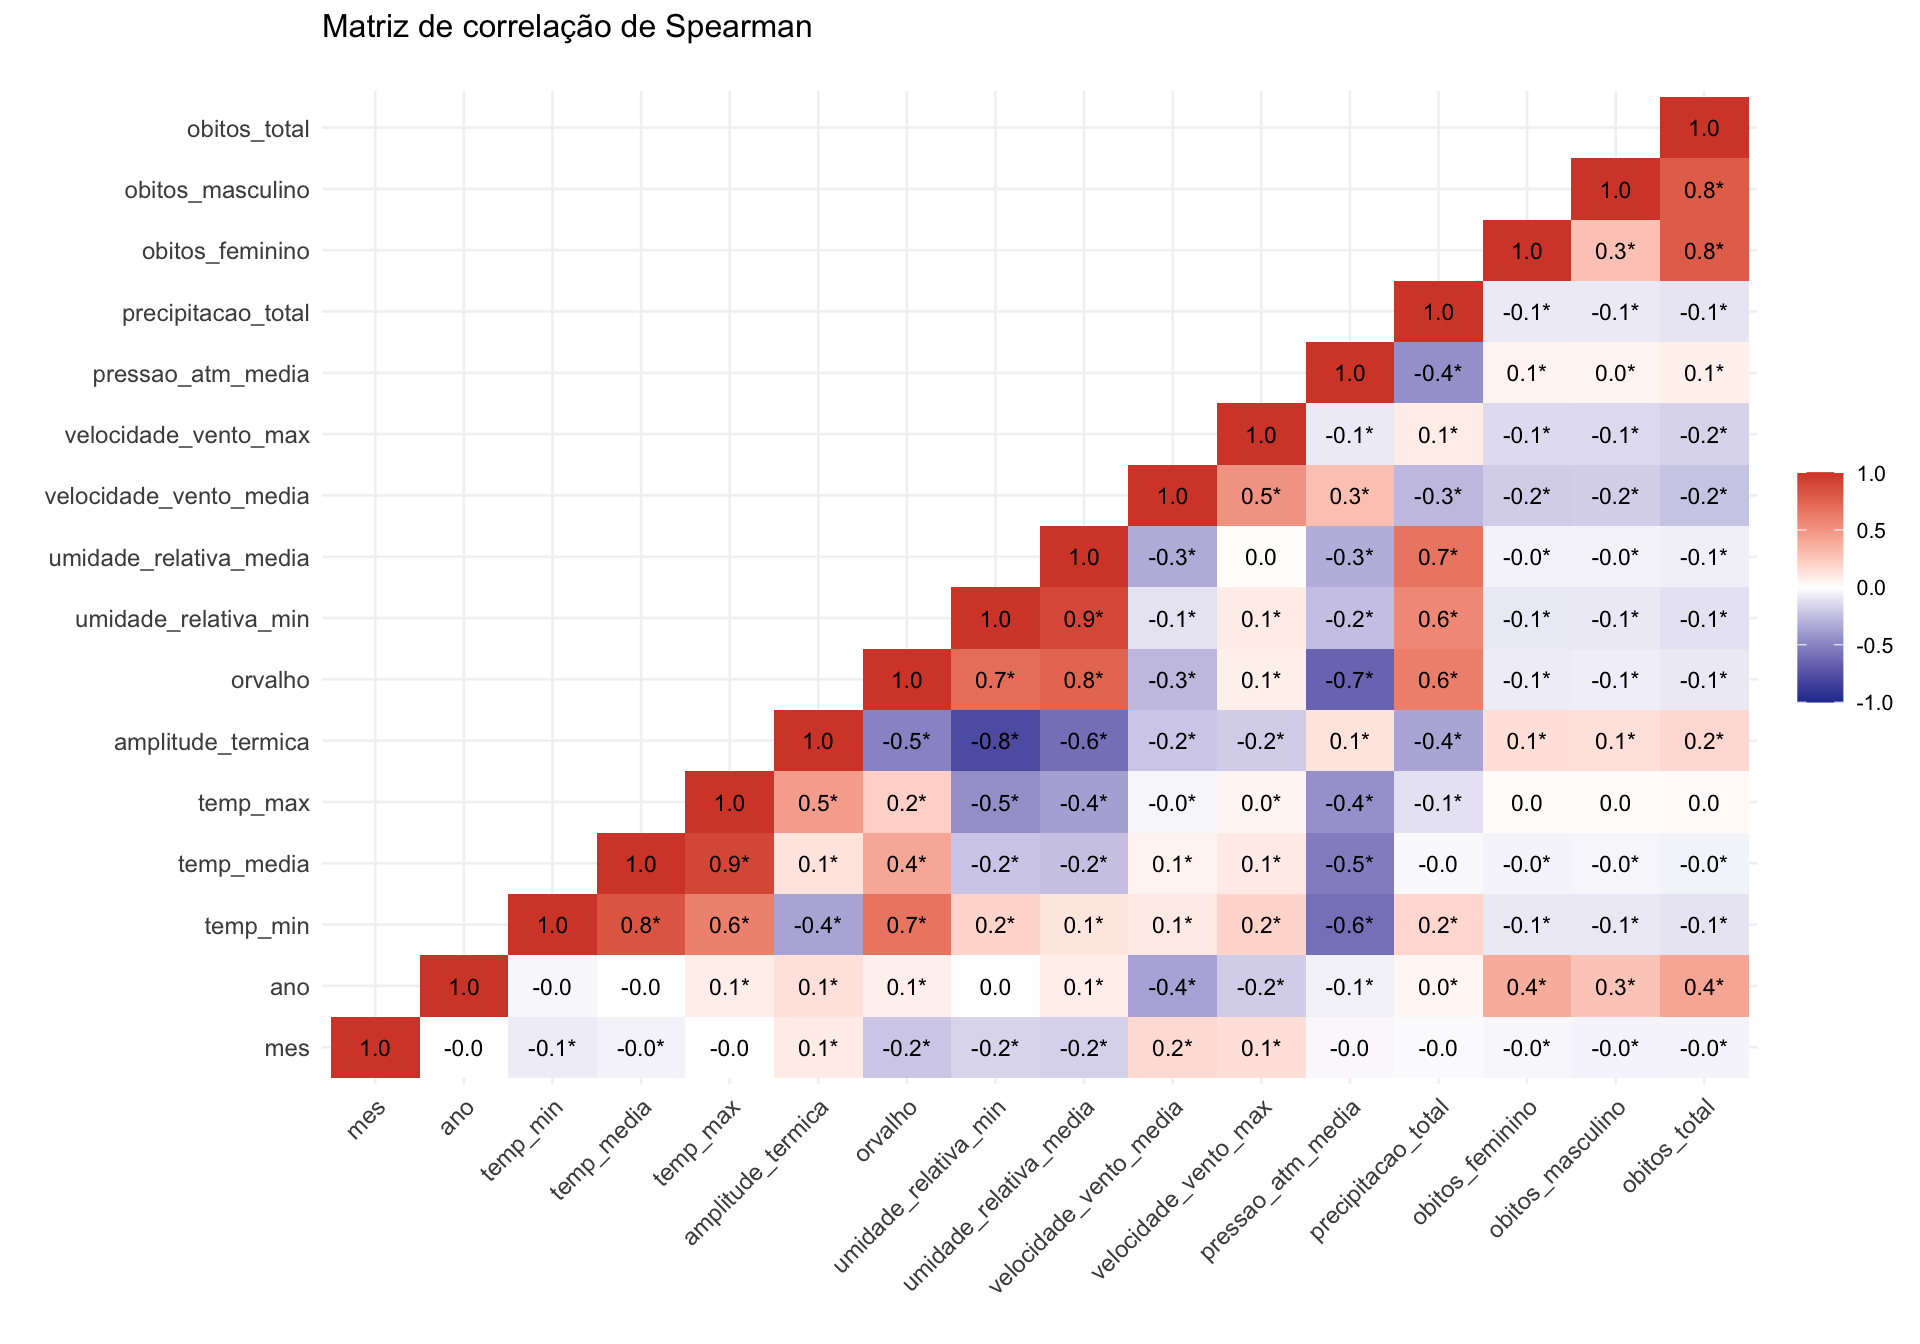
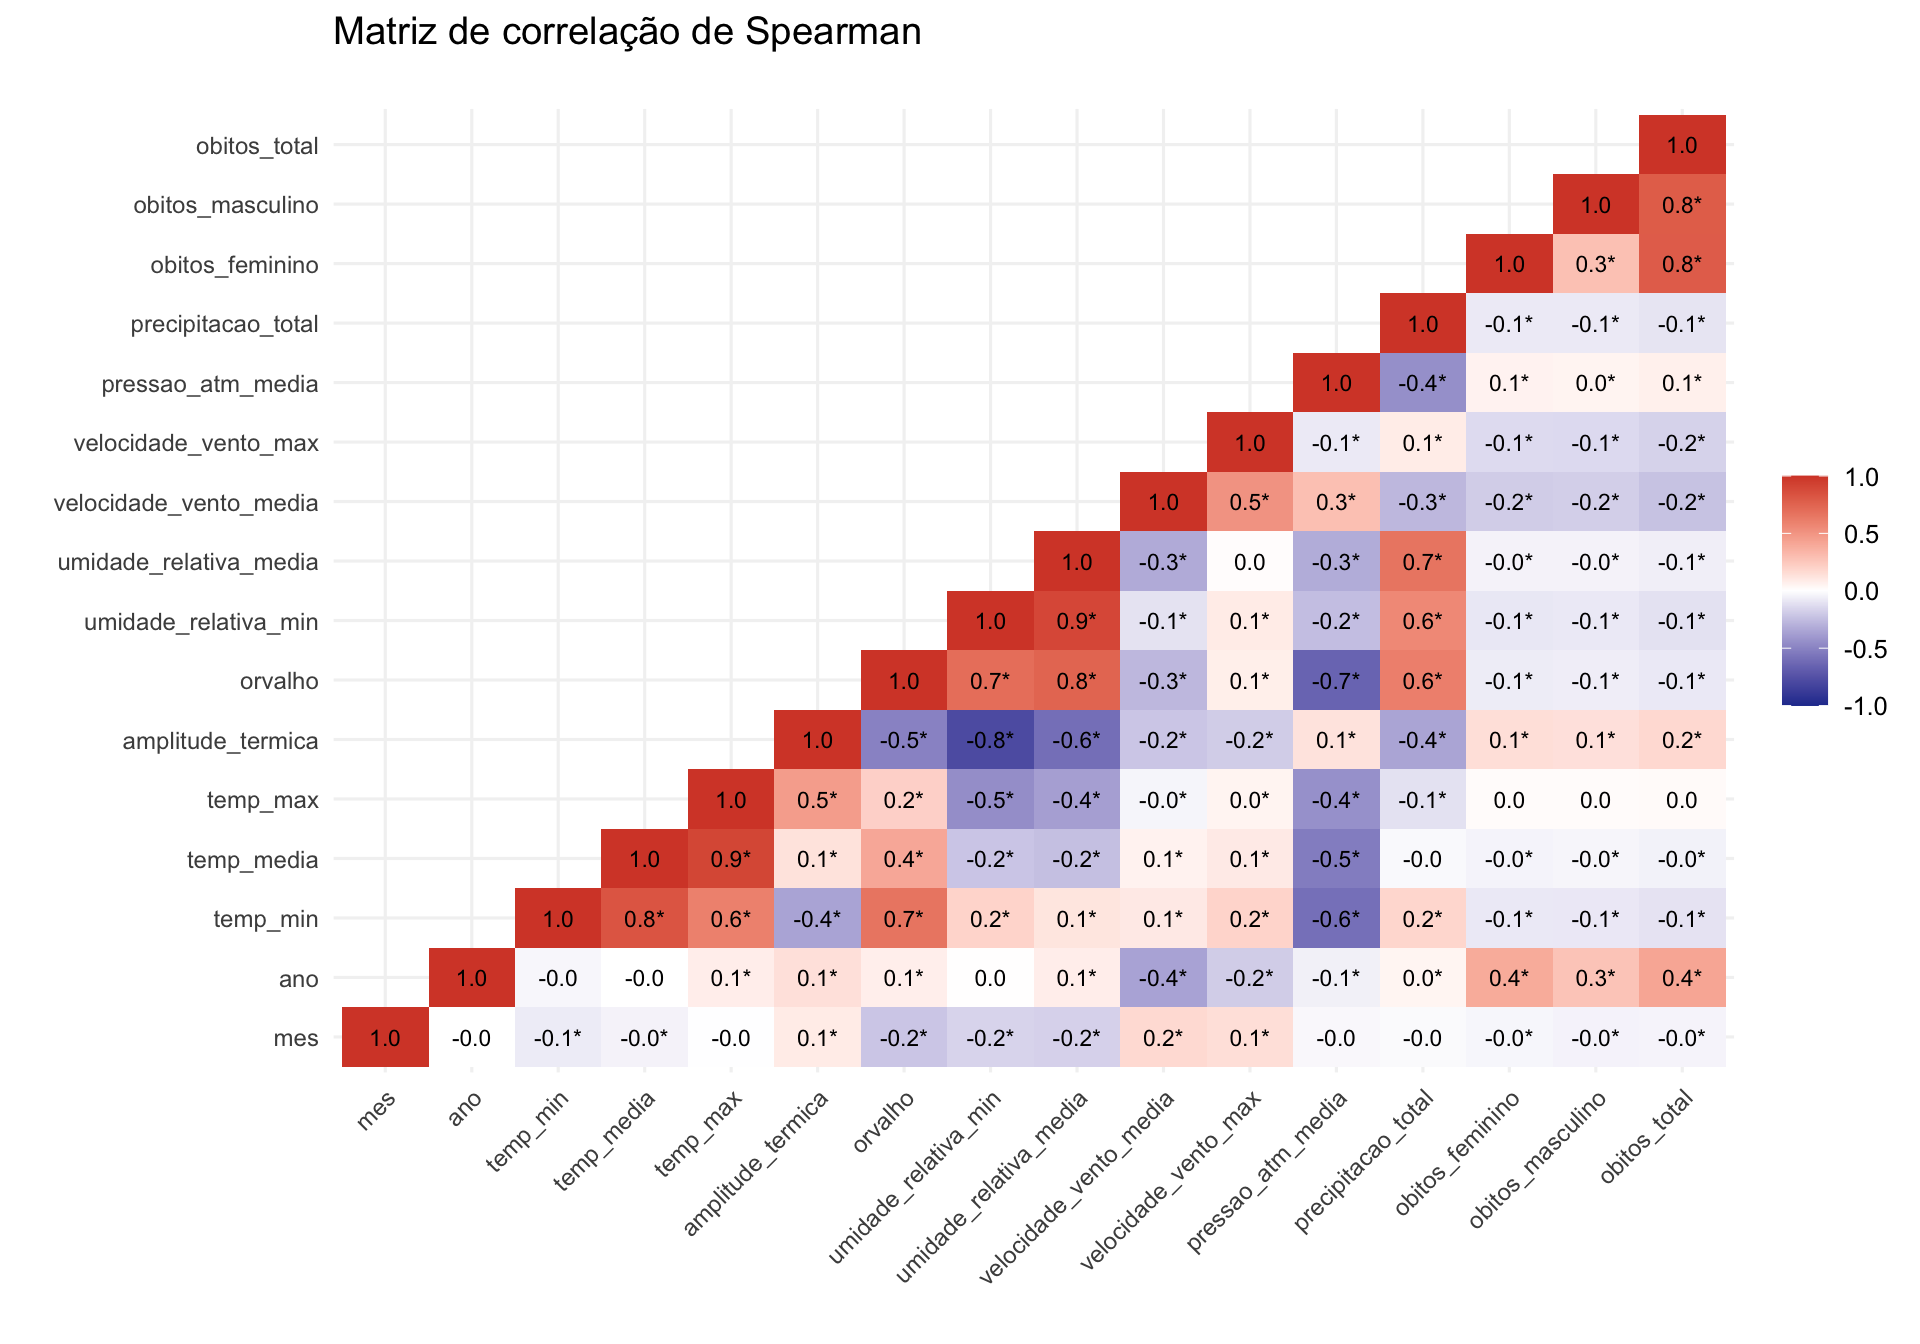
Update

diff --git a/docs/index.html b/docs/index.html
@@ -236,23 +236,23 @@ ul.task-list li input[type="checkbox"] {
 <h2 class="anchored" data-anchor-id="cronograma">Cronograma</h2>
 <div class="cell">
 <div class="cell-output-display">
-<div id="rvjqvtsvbz" style="padding-left:0px;padding-right:0px;padding-top:10px;padding-bottom:10px;overflow-x:auto;overflow-y:auto;width:100%;height:auto;">
-<style>#rvjqvtsvbz table {
+<div id="mftginproo" style="padding-left:0px;padding-right:0px;padding-top:10px;padding-bottom:10px;overflow-x:auto;overflow-y:auto;width:100%;height:auto;">
+<style>#mftginproo table {
   font-family: system-ui, 'Segoe UI', Roboto, Helvetica, Arial, sans-serif, 'Apple Color Emoji', 'Segoe UI Emoji', 'Segoe UI Symbol', 'Noto Color Emoji';
   -webkit-font-smoothing: antialiased;
   -moz-osx-font-smoothing: grayscale;
 }
 
-#rvjqvtsvbz thead, #rvjqvtsvbz tbody, #rvjqvtsvbz tfoot, #rvjqvtsvbz tr, #rvjqvtsvbz td, #rvjqvtsvbz th {
+#mftginproo thead, #mftginproo tbody, #mftginproo tfoot, #mftginproo tr, #mftginproo td, #mftginproo th {
   border-style: none;
 }
 
-#rvjqvtsvbz p {
+#mftginproo p {
   margin: 0;
   padding: 0;
 }
 
-#rvjqvtsvbz .gt_table {
+#mftginproo .gt_table {
   display: table;
   border-collapse: collapse;
   line-height: normal;
@@ -278,12 +278,12 @@ ul.task-list li input[type="checkbox"] {
   border-left-color: #D3D3D3;
 }
 
-#rvjqvtsvbz .gt_caption {
+#mftginproo .gt_caption {
   padding-top: 4px;
   padding-bottom: 4px;
 }
 
-#rvjqvtsvbz .gt_title {
+#mftginproo .gt_title {
   color: #333333;
   font-size: 125%;
   font-weight: initial;
@@ -295,7 +295,7 @@ ul.task-list li input[type="checkbox"] {
   border-bottom-width: 0;
 }
 
-#rvjqvtsvbz .gt_subtitle {
+#mftginproo .gt_subtitle {
   color: #333333;
   font-size: 85%;
   font-weight: initial;
@@ -307,7 +307,7 @@ ul.task-list li input[type="checkbox"] {
   border-top-width: 0;
 }
 
-#rvjqvtsvbz .gt_heading {
+#mftginproo .gt_heading {
   background-color: #FFFFFF;
   text-align: center;
   border-bottom-color: #FFFFFF;
@@ -319,13 +319,13 @@ ul.task-list li input[type="checkbox"] {
   border-right-color: #D3D3D3;
 }
 
-#rvjqvtsvbz .gt_bottom_border {
+#mftginproo .gt_bottom_border {
   border-bottom-style: solid;
   border-bottom-width: 2px;
   border-bottom-color: #D3D3D3;
 }
 
-#rvjqvtsvbz .gt_col_headings {
+#mftginproo .gt_col_headings {
   border-top-style: solid;
   border-top-width: 2px;
   border-top-color: #D3D3D3;
@@ -340,7 +340,7 @@ ul.task-list li input[type="checkbox"] {
   border-right-color: #D3D3D3;
 }
 
-#rvjqvtsvbz .gt_col_heading {
+#mftginproo .gt_col_heading {
   color: #333333;
   background-color: #FFFFFF;
   font-size: 100%;
@@ -360,7 +360,7 @@ ul.task-list li input[type="checkbox"] {
   overflow-x: hidden;
 }
 
-#rvjqvtsvbz .gt_column_spanner_outer {
+#mftginproo .gt_column_spanner_outer {
   color: #333333;
   background-color: #FFFFFF;
   font-size: 100%;
@@ -372,15 +372,15 @@ ul.task-list li input[type="checkbox"] {
   padding-right: 4px;
 }
 
-#rvjqvtsvbz .gt_column_spanner_outer:first-child {
+#mftginproo .gt_column_spanner_outer:first-child {
   padding-left: 0;
 }
 
-#rvjqvtsvbz .gt_column_spanner_outer:last-child {
+#mftginproo .gt_column_spanner_outer:last-child {
   padding-right: 0;
 }
 
-#rvjqvtsvbz .gt_column_spanner {
+#mftginproo .gt_column_spanner {
   border-bottom-style: solid;
   border-bottom-width: 2px;
   border-bottom-color: #D3D3D3;
@@ -392,11 +392,11 @@ ul.task-list li input[type="checkbox"] {
   width: 100%;
 }
 
-#rvjqvtsvbz .gt_spanner_row {
+#mftginproo .gt_spanner_row {
   border-bottom-style: hidden;
 }
 
-#rvjqvtsvbz .gt_group_heading {
+#mftginproo .gt_group_heading {
   padding-top: 8px;
   padding-bottom: 8px;
   padding-left: 5px;
@@ -422,7 +422,7 @@ ul.task-list li input[type="checkbox"] {
   text-align: left;
 }
 
-#rvjqvtsvbz .gt_empty_group_heading {
+#mftginproo .gt_empty_group_heading {
   padding: 0.5px;
   color: #333333;
   background-color: #FFFFFF;
@@ -437,15 +437,15 @@ ul.task-list li input[type="checkbox"] {
   vertical-align: middle;
 }
 
-#rvjqvtsvbz .gt_from_md > :first-child {
+#mftginproo .gt_from_md > :first-child {
   margin-top: 0;
 }
 
-#rvjqvtsvbz .gt_from_md > :last-child {
+#mftginproo .gt_from_md > :last-child {
   margin-bottom: 0;
 }
 
-#rvjqvtsvbz .gt_row {
+#mftginproo .gt_row {
   padding-top: 12px;
   padding-bottom: 12px;
   padding-left: 5px;
@@ -464,7 +464,7 @@ ul.task-list li input[type="checkbox"] {
   overflow-x: hidden;
 }
 
-#rvjqvtsvbz .gt_stub {
+#mftginproo .gt_stub {
   color: #333333;
   background-color: #FFFFFF;
   font-size: 100%;
@@ -477,7 +477,7 @@ ul.task-list li input[type="checkbox"] {
   padding-right: 5px;
 }
 
-#rvjqvtsvbz .gt_stub_row_group {
+#mftginproo .gt_stub_row_group {
   color: #333333;
   background-color: #FFFFFF;
   font-size: 100%;
@@ -491,15 +491,15 @@ ul.task-list li input[type="checkbox"] {
   vertical-align: top;
 }
 
-#rvjqvtsvbz .gt_row_group_first td {
+#mftginproo .gt_row_group_first td {
   border-top-width: 2px;
 }
 
-#rvjqvtsvbz .gt_row_group_first th {
+#mftginproo .gt_row_group_first th {
   border-top-width: 2px;
 }
 
-#rvjqvtsvbz .gt_summary_row {
+#mftginproo .gt_summary_row {
   color: #333333;
   background-color: #FFFFFF;
   text-transform: inherit;
@@ -509,16 +509,16 @@ ul.task-list li input[type="checkbox"] {
   padding-right: 5px;
 }
 
-#rvjqvtsvbz .gt_first_summary_row {
+#mftginproo .gt_first_summary_row {
   border-top-style: solid;
   border-top-color: #D3D3D3;
 }
 
-#rvjqvtsvbz .gt_first_summary_row.thick {
+#mftginproo .gt_first_summary_row.thick {
   border-top-width: 2px;
 }
 
-#rvjqvtsvbz .gt_last_summary_row {
+#mftginproo .gt_last_summary_row {
   padding-top: 8px;
   padding-bottom: 8px;
   padding-left: 5px;
@@ -528,7 +528,7 @@ ul.task-list li input[type="checkbox"] {
   border-bottom-color: #D3D3D3;
 }
 
-#rvjqvtsvbz .gt_grand_summary_row {
+#mftginproo .gt_grand_summary_row {
   color: #333333;
   background-color: #FFFFFF;
   text-transform: inherit;
@@ -538,7 +538,7 @@ ul.task-list li input[type="checkbox"] {
   padding-right: 5px;
 }
 
-#rvjqvtsvbz .gt_first_grand_summary_row {
+#mftginproo .gt_first_grand_summary_row {
   padding-top: 8px;
   padding-bottom: 8px;
   padding-left: 5px;
@@ -548,7 +548,7 @@ ul.task-list li input[type="checkbox"] {
   border-top-color: #D3D3D3;
 }
 
-#rvjqvtsvbz .gt_last_grand_summary_row_top {
+#mftginproo .gt_last_grand_summary_row_top {
   padding-top: 8px;
   padding-bottom: 8px;
   padding-left: 5px;
@@ -558,11 +558,11 @@ ul.task-list li input[type="checkbox"] {
   border-bottom-color: #D3D3D3;
 }
 
-#rvjqvtsvbz .gt_striped {
+#mftginproo .gt_striped {
   background-color: rgba(128, 128, 128, 0.05);
 }
 
-#rvjqvtsvbz .gt_table_body {
+#mftginproo .gt_table_body {
   border-top-style: solid;
   border-top-width: 2px;
   border-top-color: #D3D3D3;
@@ -571,7 +571,7 @@ ul.task-list li input[type="checkbox"] {
   border-bottom-color: #D3D3D3;
 }
 
-#rvjqvtsvbz .gt_footnotes {
+#mftginproo .gt_footnotes {
   color: #333333;
   background-color: #FFFFFF;
   border-bottom-style: none;
@@ -585,7 +585,7 @@ ul.task-list li input[type="checkbox"] {
   border-right-color: #D3D3D3;
 }
 
-#rvjqvtsvbz .gt_footnote {
+#mftginproo .gt_footnote {
   margin: 0px;
   font-size: 90%;
   padding-top: 4px;
@@ -594,7 +594,7 @@ ul.task-list li input[type="checkbox"] {
   padding-right: 5px;
 }
 
-#rvjqvtsvbz .gt_sourcenotes {
+#mftginproo .gt_sourcenotes {
   color: #333333;
   background-color: #FFFFFF;
   border-bottom-style: none;
@@ -608,7 +608,7 @@ ul.task-list li input[type="checkbox"] {
   border-right-color: #D3D3D3;
 }
 
-#rvjqvtsvbz .gt_sourcenote {
+#mftginproo .gt_sourcenote {
   font-size: 90%;
   padding-top: 4px;
   padding-bottom: 4px;
@@ -616,72 +616,72 @@ ul.task-list li input[type="checkbox"] {
   padding-right: 5px;
 }
 
-#rvjqvtsvbz .gt_left {
+#mftginproo .gt_left {
   text-align: left;
 }
 
-#rvjqvtsvbz .gt_center {
+#mftginproo .gt_center {
   text-align: center;
 }
 
-#rvjqvtsvbz .gt_right {
+#mftginproo .gt_right {
   text-align: right;
   font-variant-numeric: tabular-nums;
 }
 
-#rvjqvtsvbz .gt_font_normal {
+#mftginproo .gt_font_normal {
   font-weight: normal;
 }
 
-#rvjqvtsvbz .gt_font_bold {
+#mftginproo .gt_font_bold {
   font-weight: bold;
 }
 
-#rvjqvtsvbz .gt_font_italic {
+#mftginproo .gt_font_italic {
   font-style: italic;
 }
 
-#rvjqvtsvbz .gt_super {
+#mftginproo .gt_super {
   font-size: 65%;
 }
 
-#rvjqvtsvbz .gt_footnote_marks {
+#mftginproo .gt_footnote_marks {
   font-size: 75%;
   vertical-align: 0.4em;
   position: initial;
 }
 
-#rvjqvtsvbz .gt_asterisk {
+#mftginproo .gt_asterisk {
   font-size: 100%;
   vertical-align: 0;
 }
 
-#rvjqvtsvbz .gt_indent_1 {
+#mftginproo .gt_indent_1 {
   text-indent: 5px;
 }
 
-#rvjqvtsvbz .gt_indent_2 {
+#mftginproo .gt_indent_2 {
   text-indent: 10px;
 }
 
-#rvjqvtsvbz .gt_indent_3 {
+#mftginproo .gt_indent_3 {
   text-indent: 15px;
 }
 
-#rvjqvtsvbz .gt_indent_4 {
+#mftginproo .gt_indent_4 {
   text-indent: 20px;
 }
 
-#rvjqvtsvbz .gt_indent_5 {
+#mftginproo .gt_indent_5 {
   text-indent: 25px;
 }
 
-#rvjqvtsvbz .katex-display {
+#mftginproo .katex-display {
   display: inline-flex !important;
   margin-bottom: 0.75em !important;
 }
 
-#rvjqvtsvbz div.Reactable > div.rt-table > div.rt-thead > div.rt-tr.rt-tr-group-header > div.rt-th-group:after {
+#mftginproo div.Reactable > div.rt-table > div.rt-thead > div.rt-tr.rt-tr-group-header > div.rt-th-group:after {
   height: 0px !important;
 }
 </style>

diff --git a/docs/07 - Análise de temperatura e mortalidade.html b/docs/07 - Análise de temperatura e mortalidade.html
@@ -770,7 +770,7 @@ pre > code.sourceCode > span > a:first-child::before { text-decoration: underlin
 <span id="cb16-60"><a href="#cb16-60" aria-hidden="true" tabindex="-1"></a>    <span class="at">limits =</span> <span class="fu">c</span>(<span class="sc">-</span><span class="dv">1</span>, <span class="dv">1</span>),</span>
 <span id="cb16-61"><a href="#cb16-61" aria-hidden="true" tabindex="-1"></a>    <span class="at">na.value =</span> <span class="cn">NA</span></span>
 <span id="cb16-62"><a href="#cb16-62" aria-hidden="true" tabindex="-1"></a>  ) <span class="sc">+</span></span>
-<span id="cb16-63"><a href="#cb16-63" aria-hidden="true" tabindex="-1"></a>  <span class="fu">theme_minimal</span>(<span class="at">base_size =</span> <span class="dv">10</span>) <span class="sc">+</span></span>
+<span id="cb16-63"><a href="#cb16-63" aria-hidden="true" tabindex="-1"></a>  <span class="fu">theme_minimal</span>(<span class="at">base_size =</span> <span class="dv">12</span>) <span class="sc">+</span></span>
 <span id="cb16-64"><a href="#cb16-64" aria-hidden="true" tabindex="-1"></a>  <span class="fu">theme</span>(</span>
 <span id="cb16-65"><a href="#cb16-65" aria-hidden="true" tabindex="-1"></a>    <span class="at">axis.text.x =</span> <span class="fu">element_text</span>(</span>
 <span id="cb16-66"><a href="#cb16-66" aria-hidden="true" tabindex="-1"></a>      <span class="at">angle =</span> <span class="dv">45</span>,</span>
